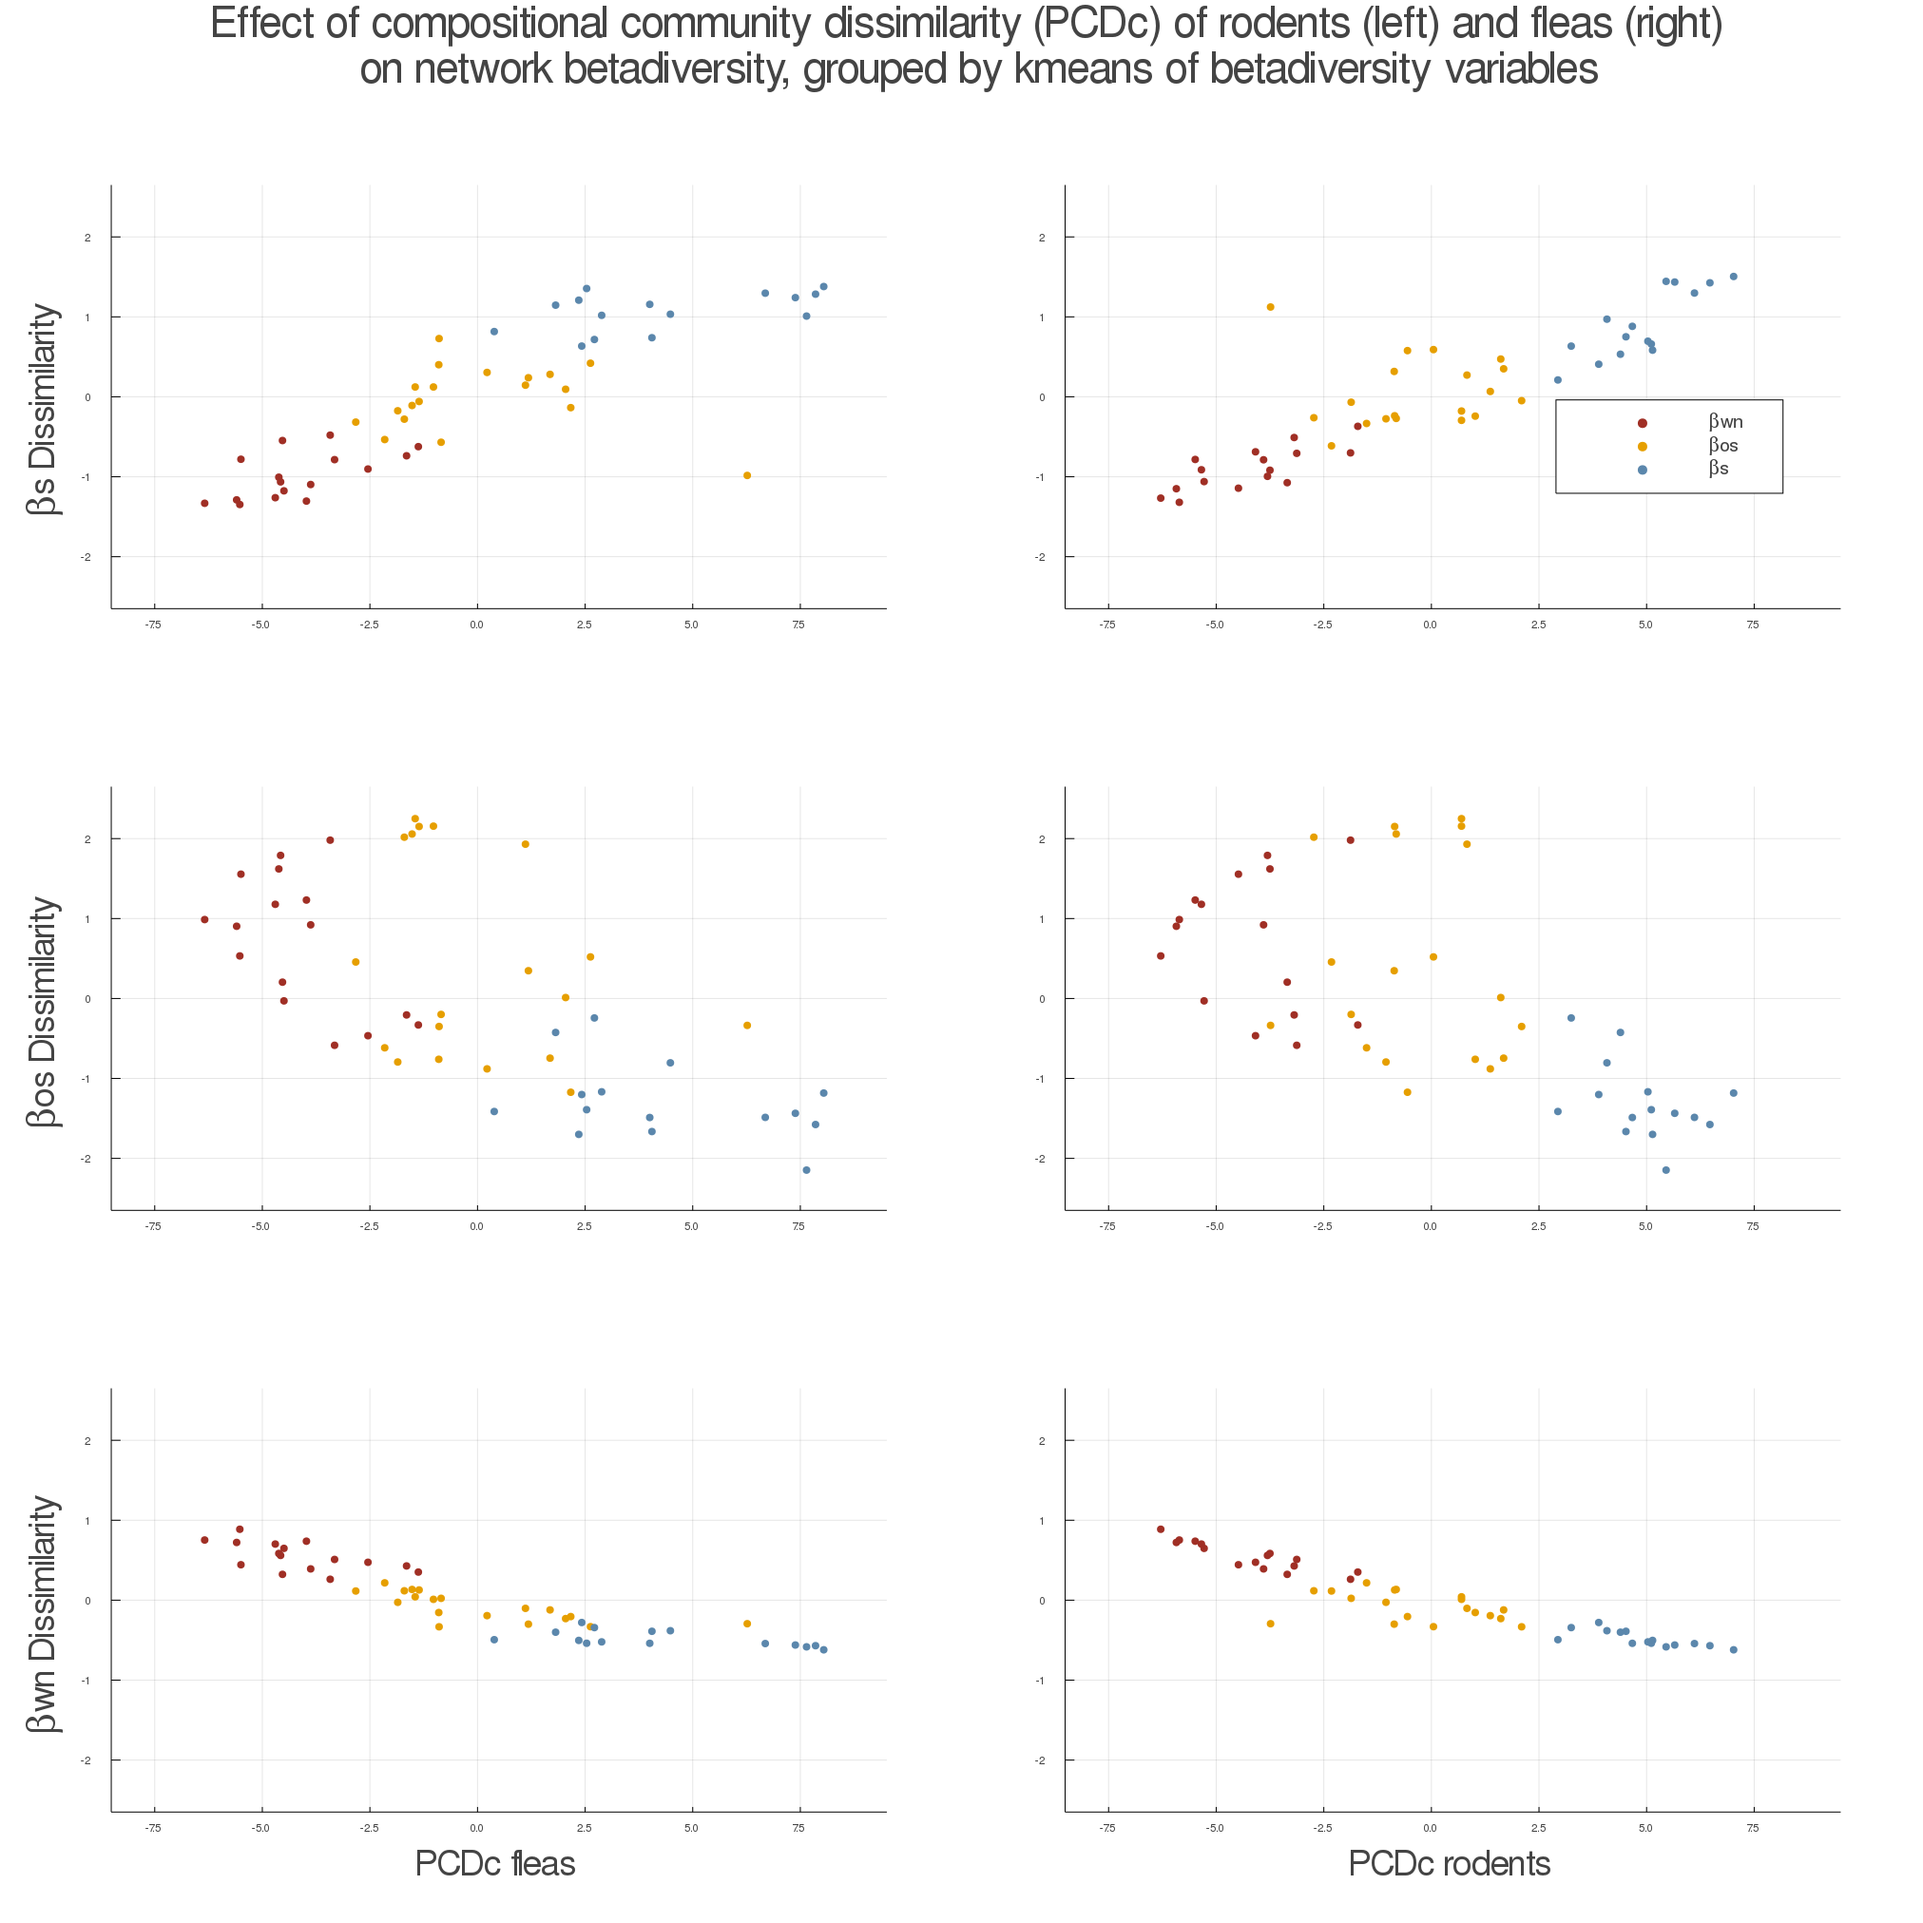
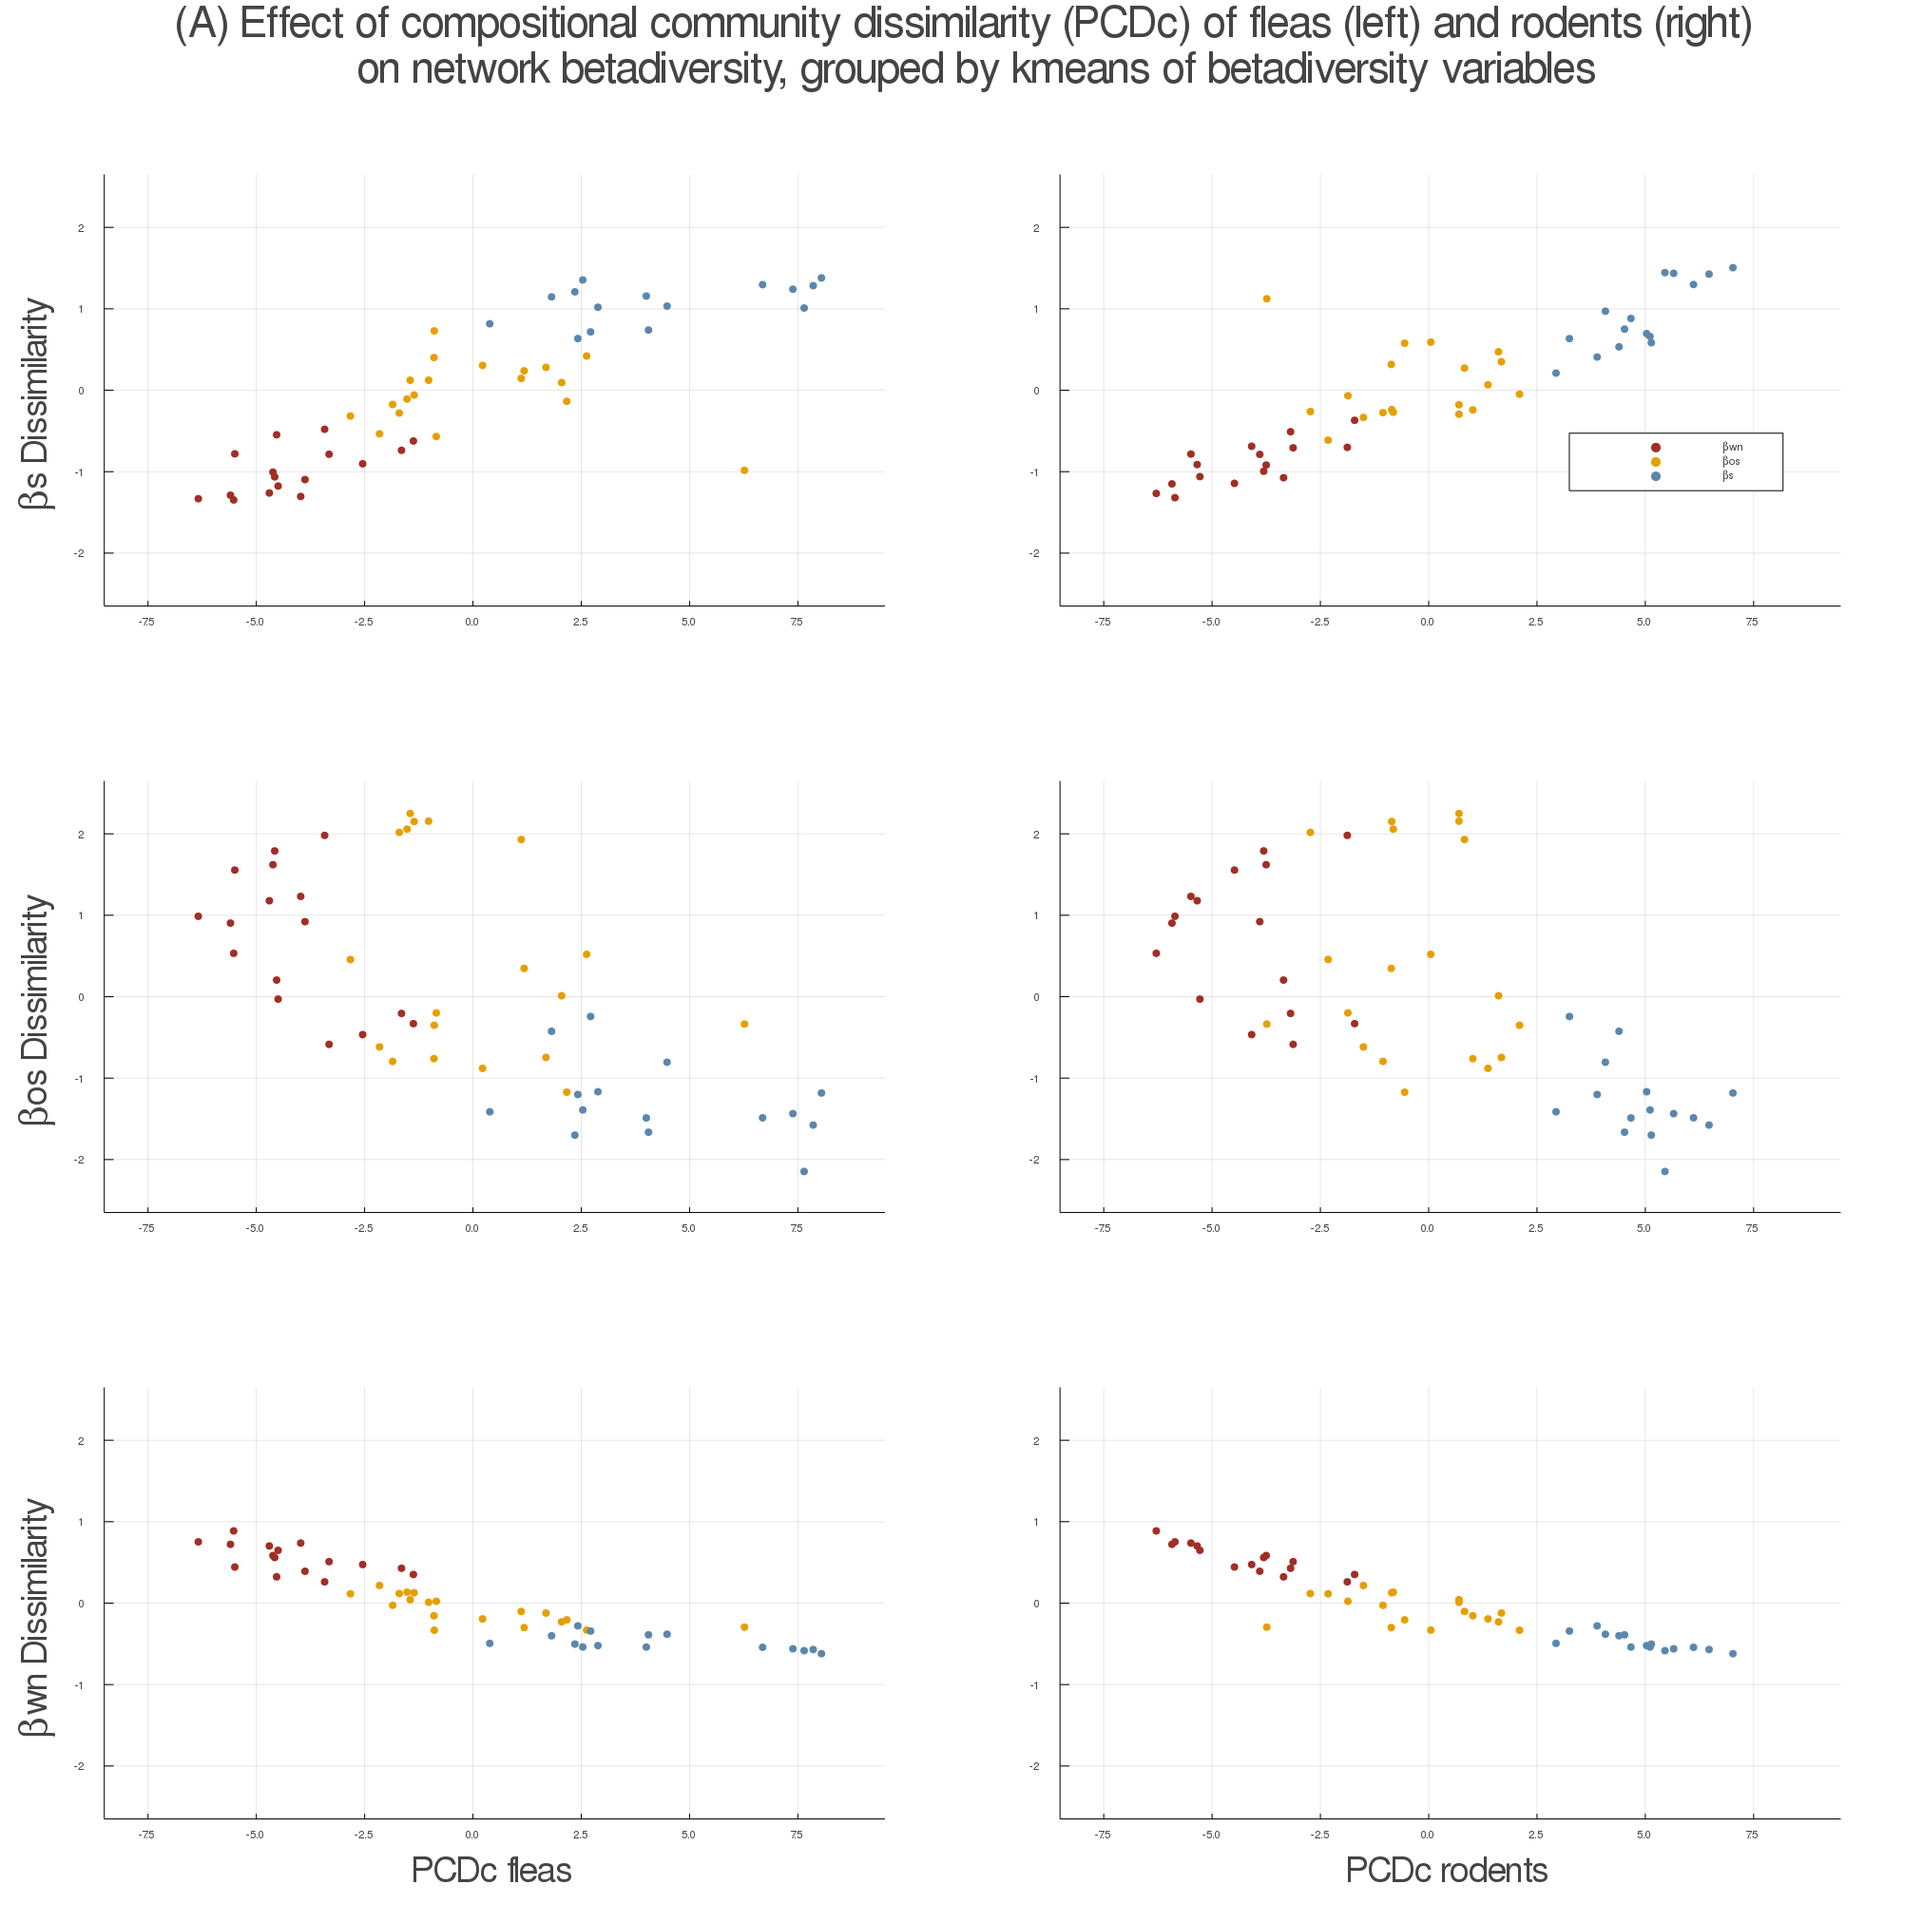
fixing fig 2 title and legend, fig 3 legend

diff --git a/manuscript.md b/manuscript.md
@@ -249,13 +249,13 @@ conserved also when species are replaced, like when two species that are
 phylogenetically distant replace each other in the same ecological function.
 
 ![Effects of the compositional element of phylogenetic diversity dissimilarity
-on network beta-diversity for both hosts (left) and parasites (right). The
+on network beta-diversity for both parasites (left) and hosts (right). The
 colours correspond to the groups described on fig. 1. Networks with higher
 values of PCDc are taxonomically more distinct and therefore have higher values
 of *$\beta$s* and lower values of *$\beta$os* because they do not share many
 species.](figures/fig2A.png){#fig:twoA}  
 
-![Effects of the phylogenetic component of the phylogenetic diversity dissimilarity on network beta-diversity for both hosts (left) and parasites (right). The colours correspond to the groups described on fig. 1. Networks with higher values of PCDp are phylogenetically more distinct, and therefore have lower values of *$\beta$os* (because they do not share many species). Networks better represented by *$\beta$wn* and *$\beta$os* are less distinguished on this aspect, but usually have lower values of PCDp.](figures/fig2B.png){#fig:twoB}  
+![Effects of the phylogenetic component of the phylogenetic diversity dissimilarity on network beta-diversity for both parasites (left) and hosts (right). The colours correspond to the groups described on fig. 1. Networks with higher values of PCDp are phylogenetically more distinct, and therefore have lower values of *$\beta$os* (because they do not share many species). Networks better represented by *$\beta$wn* and *$\beta$os* are less distinguished on this aspect, but usually have lower values of PCDp.](figures/fig2B.png){#fig:twoB}  
 
 
 ### The separation of communities by components of beta-diversity was also observed geographically  
